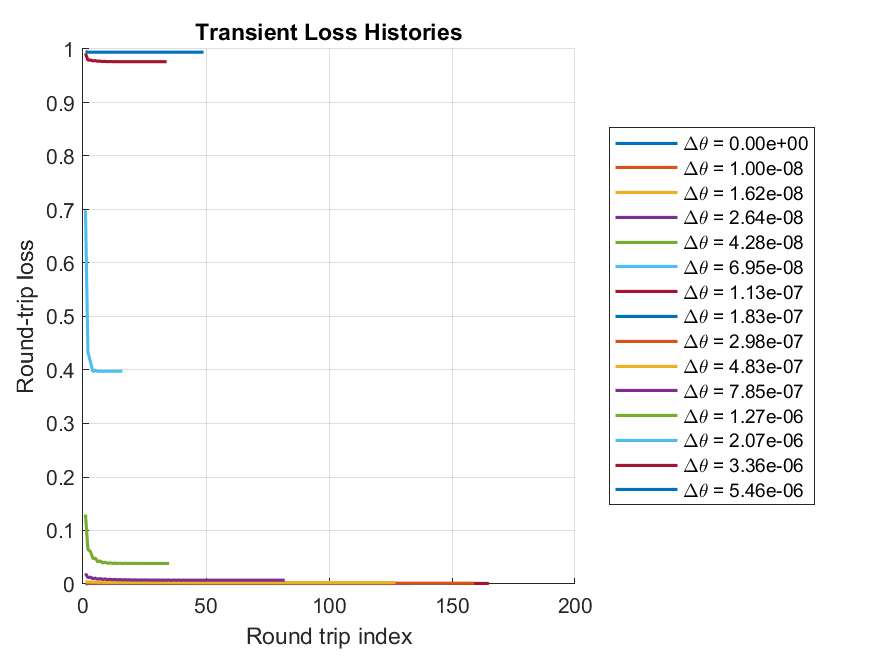
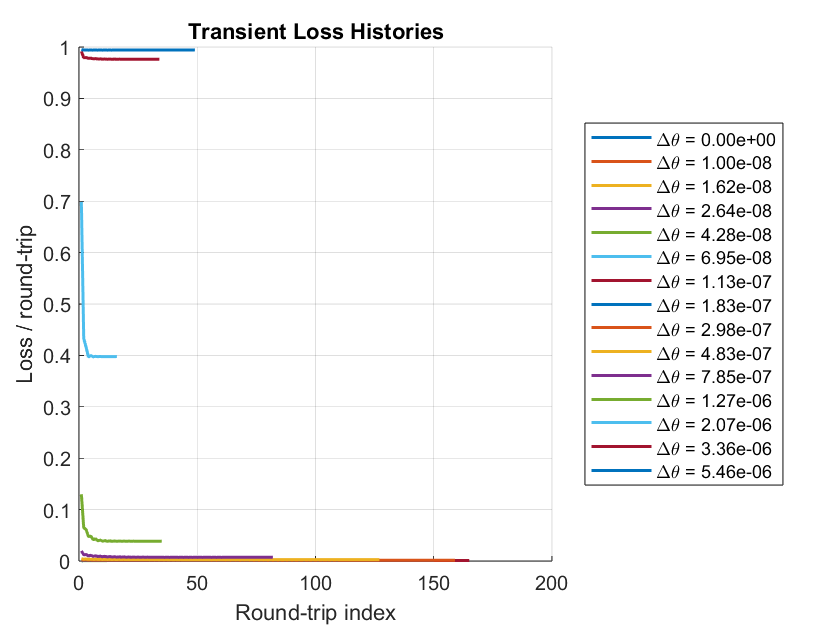
Additional figures for deltatheta study

diff --git a/Main_Sim/Analyze_DeltaTheta_Study.m b/Main_Sim/Analyze_DeltaTheta_Study.m
@@ -38,7 +38,7 @@ for i = 1:numel(folders)
     end
 
     S = load(ws_file, 'outputs', 'sim', 'laser');
-    sim = S.sim;
+    sim = S.sim; laser = S.laser;
 
     k = k + 1;
     DeltaTheta_cell{k} = dtheta_val;
@@ -124,13 +124,13 @@ centery_cell      = centery_cell(idx);
 %% Plot 1: converged loss vs DeltaTheta
 figure;
 mask = DeltaTheta > 0;
-semilogx(DeltaTheta(mask), 100*loss_RT(mask), 'o-', 'LineWidth', 1.5);
+loglog(DeltaTheta(mask) / laser.theta_D, 100*loss_RT(mask), 'o-', 'LineWidth', 1.5);
 hold on;
 if any(DeltaTheta == 0) && any(mask)
-    plot(0, loss_RT(DeltaTheta==0), 'rs', 'MarkerFaceColor', 'r');
+    loglog(0, loss_RT(DeltaTheta==0), 'rs', 'MarkerFaceColor', 'r');
 end
 grid on;
-xlabel('\Delta\theta_x [rad]');
+xlabel('\Delta\theta_x / \theta_D');
 ylabel('Converged loss / round-trip (%)');
 title('Converged Loss vs Mirror Misalignment');
 
@@ -155,8 +155,8 @@ for i = 1:numel(DeltaTheta)
     end
 end
 grid on;
-xlabel('Round trip index');
-ylabel('Round-trip loss');
+xlabel('Round-trip index');
+ylabel('Loss / round-trip');
 title('Transient Loss Histories');
 legend('show', 'Location', 'eastoutside');
 
